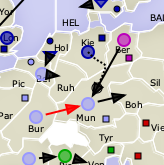
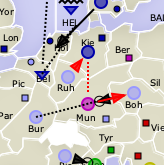
Fall 1905

diff --git a/index.html b/index.html
@@ -36,13 +36,13 @@
         <header>Diplomacy Today</header>
     </div>
 
-		<div class="subhead">York, MA - <span id="season">Spring 1905</span> - Seven Pages</div>
+		<div class="subhead">York, MA - <span id="season">Fall 1905</span> - Seven Pages</div>
 </div>
 <div class="content">
     <div class="collumns">
 			
         <div class="collumn">
-					<div class="head"><span class="headline hl3">Trieste Shocked as Turkey Seizes Control!</span><p><span class="headline hl4">Failed Military Movements Across Europe Lead to Stunning Takeover</span></p></div>
+					<div class="head"><span class="headline hl3">Triumphant Turkey Seizes Serbia, Tensions Simmer in Albania</span><p><span class="headline hl4">Ottoman Remnants Continue Ambitious Advance, Austria and Russia Lend Support to Opposing Sides</span></p></div>
 
 				<figure class="figure">
 					
@@ -51,17 +51,11 @@
 							</figure>
 
 					
-					Turkish forces have successfully seized control of Trieste this week. The unprecedented military advancement came after a series of unsuccessful orders in various regions. Among the failed military operations were attempts by Austria to exert influence in Serbia and Greece, as well as moves by Russia and Turkey to capture Budapest. Russian attempts at extending control over Galicia from Warsaw met similar resistance.
-
-The military blunders have left many questioning the strategic decisions of the leaders involved. "It's as if the whole continent has been caught with their pants down," quipped Dr. Hugo von Fuchs, the famous Viennese military historian. He adds, "Turkey seems to have benefited greatly from these military missteps, I am curious to see how this reshapes the balance of power." 
-
-Meanwhile, the triumphant move from Serbia to Trieste marked a rare success on a day of otherwise frustrated ambition and left areas of Tyrol deeply concerned about potential invasions. Further controversy was added as Turkish forces in the Black Sea were able to provide unchallenged support to Rumania, believed to be a purposefully misleading strategy by the Turkish officials. 
-
-The fallout from these recent manoeuvres promises to set Europe on a new, possibly volatile path. In Trieste, Mayor Giuseppe Tornielli, a civilian appointed by the previous Austrian administration, called for calm, saying, "We will continue our lives, adapt, and demonstrate our resilience in the face of any occupier." However, as Europe's leaders grapple with the disappointing outcomes of these military moves, it's clear the continent's political landscape is in for some drastic changes.
+					The remnants of the Ottoman Empire, now presenting themselves as the nascent nation of Turkey, have successfully seized the disputed territory of Serbia. Backed by strategic support from Bulgaria and Rumania, the Turkish forces made swift work of their Austro-Hungarian opposition. The audacious assault by Turkish forces from Bulgaria, endorsed by the dark horse Russian presence in Rumania, has caused a seismic shake-up in the political landscape of 1903 Europe. Meanwhile, Austria's attempt to mobilize its militia in Albania proved futile against the Turkish resistance, causing alarm in Budapest. Concurrently, Turkey managed to conquer Bulgaria from Constantinople, cementing its hold in the Balkan Peninsula. Notable quotable, General Iskander Bey of Turkey, remarked, "Today we have shown the world the resolve of our new Republic. Our enemies would do well to remember our strength." Conversely, Duke Karl Von Habsburg of Austria lamented, “The integrity of our people and territories has been challenged by this blatant act of aggression. Rest assured, the House of Habsburg will respond.” The geopolitical house of cards in Europe teeters on the brink of collapse as nations calculate their next moves.
 				</div>
 			
         <div class="collumn">
-					<div class="head"><span class="headline hl3">The Shocking Battle of Munich: Russia and England Prevail, France Falls</span><p><span class="headline hl4">A Sudden Shift in Power Dynamics As Allies Russia and England Outmaneuver France</span></p></div>
+					<div class="head"><span class="headline hl3">Franco-Russian Tug of War: Munich now Holds a Tricolour Flag!</span><p><span class="headline hl4">English Retreat in Kiel Blamed, Russian Advance in Bohemia Halted!</span></p></div>
 
 				<figure class="figure">
 					
@@ -70,11 +64,54 @@ The fallout from these recent manoeuvres promises to set Europe on a new, possib
 							</figure>
 
 					
-					The once impenetrable fortress of Munich lost to the combined forces of Russia and England. Russian troops moved unchallenged from Berlin, significantly strengthened by the English forces based in Kiel. French military strategists, caught off guard by this act of unprecedented cooperation, were forced into a hasty retreat to Bohemia. General Jacques Leroux of the French army admits, "We were outflanked and outnumbered. We knew we had to regroup for the battles to come." Meanwhile, Russian General Ivan Borodin hailed the victory with an unsettling prediction: "We have had a taste of victory and like the wolf, we are now hungering for more. Europe, be warned!" England remained tight-lipped about their next move, this newfound alliance leaving the rest of Europe in suspense.
+					The French forces have wrestled control of Munich from the English, turning the tide in the heart of Europe. A triumphant General Armand DeGaulle, in command of the French troops, led the supporting expedition from Bohemia to Munich, declaring, "Our nation's might is unchallenged and the spirit of France cannot be subdued." The celebrations, however, were marred by the failure of French advance into English-held Kiel where the defence strength proved insurmountable. Meanwhile, Russia's attempt to gain a foothold in Bohemia from Munich was deflected by an intact French front.  The elaborate diplomatic chess game continues, the uncertainty making every move a gamble.
 				</div>
 			
         <div class="collumn">
-					<div class="head"><span class="headline hl3">Italian Tusks Pierce Into Venice; French March Into Piedmont</span><p><span class="headline hl4">A Spectacular Game of Musical Chairs Unfolds in Europe</span></p></div>
+					<div class="head"><span class="headline hl3">Battle of the Seas: The English Channel Remains a Crucial Battleground</span><p><span class="headline hl4">The French Naval Convoy Intercepts the Unchallenged English Forces in a Dramatic Duel for Brest</span></p></div>
+
+				<figure class="figure">
+					
+					<img class="media" src=assets/battle2.png alt="">
+									<!-- <figcaption class="figcaption">Hermine hoping for courage.</figcaption> -->
+							</figure>
+
+					
+					The French convoy, ingeniously dispatched from North Africa, managed to uphold its claim over the strategic town of Brest. The charm of the French captain Gustave Moreau, has bewitched not only the hearts of the Brest citizens, but also the tactical play on the chessboard of European geopolitics. Captain Moreau commented, 'We are a force to be reckoned with. The Mid-Atlantic Ocean remains in our hands, unchallenged and ready to protect our lands.' Meanwhile, the British forces, under the command of Admiral George Hampton, failed in their bid to seize control of Brest from the Welsh front. However, the Admiral remains defiant stating, 'This is but one battle. England's spirit remains undaunted, and we have shored up our position in the English Channel. Tomorrow is another day, and we shall fight again.' As this maritime saga evolves, one thing remains clear: the battle for Brest has only just begun.
+				</div>
+			
+        <div class="collumn">
+					<div class="head"><span class="headline hl3">Venice Falls, Rome Stands: Fratria Overcomes Italy's Challenge!</span><p><span class="headline hl4">In a Game of Power, Turkey and France Form a Tense Alliance While Defending Rome in Dire Times</span></p></div>
+
+				<figure class="figure">
+					
+					<img class="media" src=assets/battle3.png alt="">
+									<!-- <figcaption class="figcaption">Hermine hoping for courage.</figcaption> -->
+							</figure>
+
+					
+					The Ottoman Empire came to the support of its long-standing rival France, allowing them to take control of Venice from Italy. The unanticipated maneuver, orchestrated by Turkish commander-in-chief Mehmet "The Puppet Master" Viser, originated from Apulia and succeeded without a hint of opposition. Meanwhile, Italy made a desperate and ultimately unsuccessful move to retake Rome from four-time chess champion and military strategist Francois Leblanc. Echoing from the Tyrrhenian Sea, battle cries went unheard as Italy's forces were quelled with resolute French naval power. 'This marks only the beginning of a new European order,' an audacious Viser gloated, sparking fears and anticipation in geopolitical circles across the continent.
+				</div>
+			
+        <div class="collumn">
+					<div class="head"><span class="headline hl3">English Sea-Lions Roar Again: Tactical Triumph as Holland Falls!</span><p><span class="headline hl4">Stunning maritime maneuvers seal Holland's fate as England expands its influence in the Low Countries.</span></p></div>
+
+				<figure class="figure">
+					
+					<img class="media" src=assets/battle4.png alt="">
+									<!-- <figcaption class="figcaption">Hermine hoping for courage.</figcaption> -->
+							</figure>
+
+					
+					England has emblazoned its symbol, the mighty sea-lion, across northwestern Europe, capturing the crown jewel of the Low Countries – Holland. Exploiting its naval strengths, the English navy, led by the audacious Admiral Jonathan 'Jolly' Trawford, drew support from Belgium, and successfully mounted a tactical convoy from Denmark to Holland. 
+
+"It was a two-pronged advance," explained Trawford, exuding confidence in the English stronghold. "Using the North Sea for our transport, with simultaneous support from Denmark and Belgium, we were able to enforce our dominance and ensure a safe landing in Holland. We were not challenged at any point; our strategy was foolproof."
+
+A stunned silence occupied the corridors of French power, voicing their loss and inability to contest English dominance. As French strategist, Marcel Dubois lamented, "The English lion has always been a force to reckon with on sea. We underestimated their strategy this time.” Analysts predict this win to herald a new era of English dominance in the region putting France's position at stake. Further updates are awaited.
+				</div>
+			
+        <div class="collumn">
+					<div class="head"><span class="headline hl3">Fall of Tunis: A Checkmate by Franco-Turkish Alliance</span><p><span class="headline hl4">Italian Stronghold in Tunis Surrenders Under Massive Assault</span></p></div>
 
 				<figure class="figure">
 					
@@ -83,11 +120,11 @@ The fallout from these recent manoeuvres promises to set Europe on a new, possib
 							</figure>
 
 					
-					The Italian forces launched a successful offensive from Piedmont, taking control of Venice. General Ludovico Alfieri executed the bold maneuver claiming, "The Lion will now roar from the canals of Venice!" A simultaneous power shift occurred as French forces from Marseilles, under the command of General Louis Moreau, tactically penetrated the boundaries of Piedmont in an ambitious stride to fortify France's western flank. "Venetian or Piedmontese, our sovereignty remains unyielding," proclaimed General Moreau amidst the jubilant French troops. The tensions in Europe escalate as nations vie for power in a constantly shifting geopolitical landscape.
+					The French-Turkish alliance has successfully overrun the Italian stronghold in Tunis. The city fell after a surprise onslaught led by France's Commander Jean-Luc Devereux from the Western Mediterranean, staunchly supported by Turkey's formidable fleet in the Ionian Sea. Experts say this victory reflects the strengths of their carefully orchestrated allegiance. Italy, with its beleaguered forces and insufficient hold strength, could not withstand the assault. "Our glorious days in Tunis have been eclipsed," mourns the Italian chief Commandant, Giancarlo Bianchi. "But Italy is not defeated. History will take note of this transgression. The dawn will be ours again.
 				</div>
 			
         <div class="collumn">
-					<div class="head"><span class="headline hl3">The Battle of Belgium: An English Triumph, French Fall Back to Ruhr</span><p><span class="headline hl4">Harrowing Night in Brussels as Holland-Based British Forces Seize Power, France Regroups in Germany's Industrial Heartland</span></p></div>
+					<div class="head"><span class="headline hl3">Shocking Alliance! English Support Aids Russian Retaking of Moscow!</span><p><span class="headline hl4">Unprecedented cooperation between historical foes challenges German stronghold.</span></p></div>
 
 				<figure class="figure">
 					
@@ -96,20 +133,7 @@ The fallout from these recent manoeuvres promises to set Europe on a new, possib
 							</figure>
 
 					
-					The once peaceful streets of Belgium were transformed into a roaring battlefield last night as hour by hour, territory was fiercely contested by the forces of England and France. With tactful maneuvers, and a decisive blow from Holland, England succeeded in overpowering French control, forcing a French retreat into Ruhr. England's Auburn Field Marshal Quentin Holloway employed superior attack strength and strategic genius to ensure a hard fought victory. French General Armand Duval seems to be in a precarious position; however, he assured the nation in a rapidly assembled press conference, 'We lost a battle, but the fight remains. The Ruhr shall be our rallying point!'
-				</div>
-			
-        <div class="collumn">
-					<div class="head"><span class="headline hl3">The British Lion Roars: St Petersburg Successfully Defends Against German Onslaught</span><p><span class="headline hl4">Moscow's Foolhardiness Leads To Ineffectual Offensive, Straining German-English Relations</span></p></div>
-
-				<figure class="figure">
-					
-					<img class="media" src=assets/battle10.png alt="">
-									<!-- <figcaption class="figcaption">Hermine hoping for courage.</figcaption> -->
-							</figure>
-
-					
-					The unfaltering resolve of England's forces in St. Petersburg has thwarted a German incursion from Moscow. The attempt failed to make any headway owing to insufficient attack strength from the German side. General Sir Arthur Reeve, commanding the defense of St Petersburg, asserted, "The British spirit proves once more unbendable in the face of adversity." Meanwhile, in the halls of the German Chancellery, Chancellor Wilhelm von Braun expressed his disappointment, stating, "We overestimated our attack capability, but remain undeterred in our objectives." This failed attack proves a significant blow to Germany and England relations, which, until recently, sported an air of precarious peace.
+					The English forces stationed at St Petersburg, previously a major German stronghold, proved instrumental in Russia's stride towards regaining control of Moscow. Dispatching support to Warsaw, the English army successfully bolstered Russia's attack strength, to the utter dismay of German forces. The bewildering manoeuvre, reportedly orchestrated by Field Marshal Edward Sterling, has sent shockwaves across Europe. He quipped, "When the enemy of my enemy is my friend, alliances shift on European soil." Sterling's audacity was soon met with retribution as Germany attempted an assault on St Petersburg, only to be effectively thwarted by the strengthened Russian-English alliance. This volatile reshuffle of power dynamics in Europe continues to baffle global diplomatic circles, opening up potential new avenues for future geopolitical manoeuvres and military strategies.
 				</div>
 			
         <div class="collumn">
@@ -117,13 +141,7 @@ The fallout from these recent manoeuvres promises to set Europe on a new, possib
 
 				<figure class="figure">
 					
-					In other news, England, maintaining a strong offensive, has managed successful moves from Sweden to Denmark, and from Denmark to Helgoland Bight. Their military also moved from Skagerrak to North Sea, and then advanced to the English Channel, bolstering forces there. Further military units moved unchallenged within their borders from London to Wales. 
-
-France, not to be outdone, made successful military advancements too. They moved from Brest to North Africa via a successful convoy in the Mid-Atlantic Ocean. French military units also relocated from Spain into the Western Mediterranean and moved from Rome into the Tyrrhenian Sea.
-
-Turkey's military moves were also marked with success as they moved unopposed from Ankara to Constantinople, and further pushed into Bulgaria. They also managed a successful shift from Naples to Apulia. 
-
-Meanwhile, England and Italy chose to hold their troops in Norway and Tunis respectively, remaining unchallenged in those territories.
+					In other news, England has successfully moved troops from Norway to Sweden, surprisingly without any conflict reported. The attack strength was cited as the cause of the peaceful displacement. Additionally, Austria has also undertaken a strategic move. Their forces left Galicia and marched into Vienna. The power and strength of their troops have been marked as a major factor behind this successful move. The details of the impact such maneuver will have on the current political landscape are yet to be determined.
 				</div>
 			
   <!--       <div class="collumn"> -->
